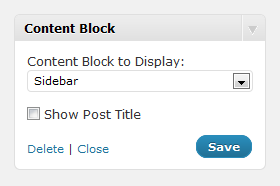
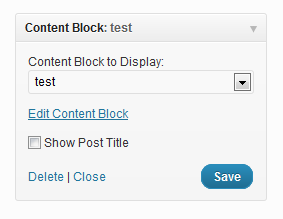
git-svn-id: https://plugins.svn.wordpress.org/custom-post-widget/tags/1.8.4@460055 b8457f37-d9ea-0310-8a92-e5e31aec5664

diff --git a/trunk/custom-post-widget.php b/trunk/custom-post-widget.php
@@ -8,7 +8,7 @@
  Author URI: http://www.vanderwijk.com
  License: GPL2
 
- Release notes: Version 1.8.2 Various bugfixes.
+ Release notes: Version 1.8.4 Usability improvements.
  
  Copyright 2011 Johan van der Wijk (email: info@vanderwijk.com)
  
